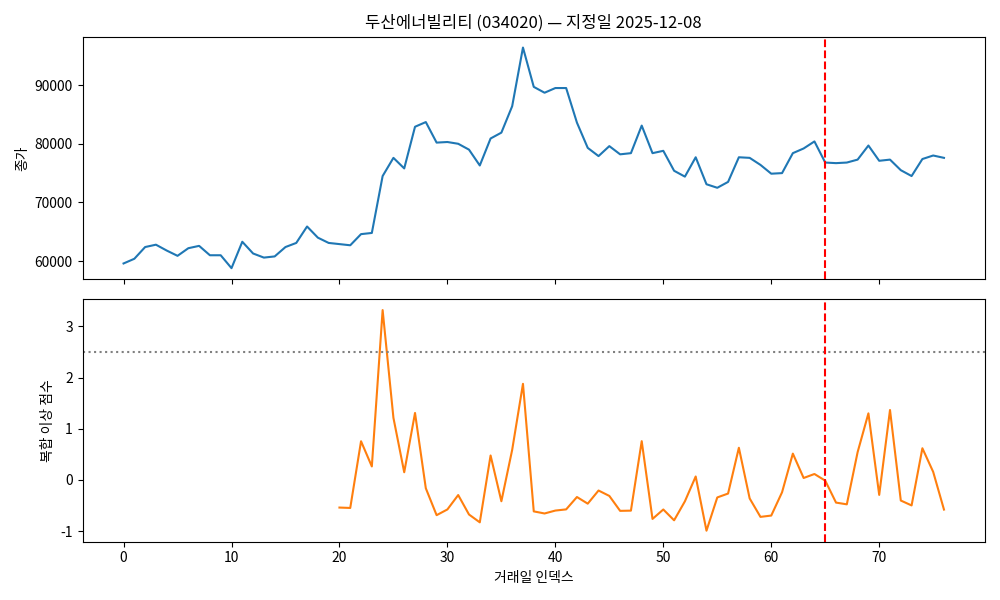
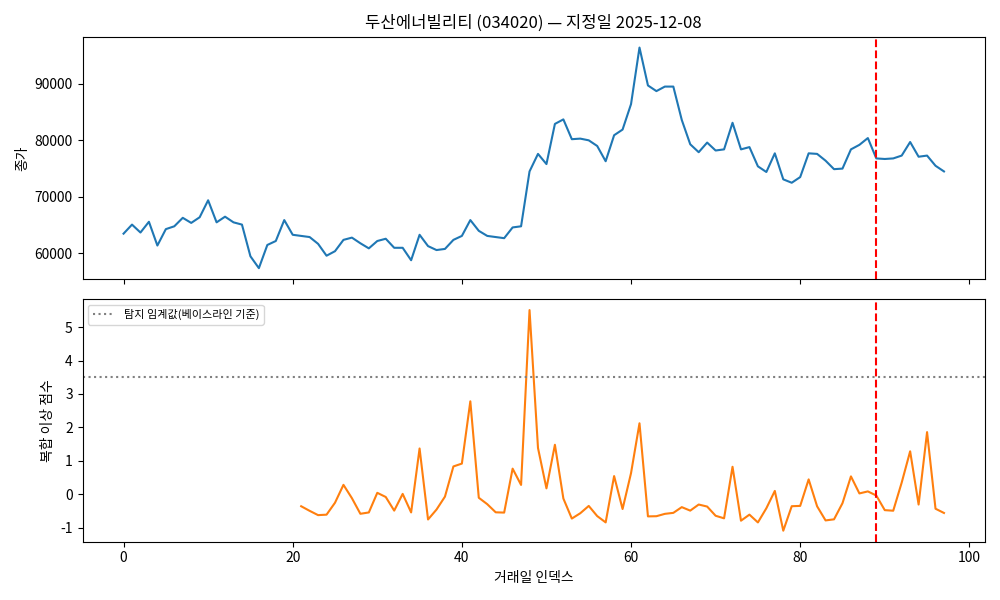
fix: address final review findings (Important #1-5)
- detector: trailing z-score window now excludes the current day
  (was self-inclusive, capping z near 4.25 regardless of spike size)
- backtest: baseline must be fully non-NaN past the rolling-window
  warm-up, not just row-count-sufficient (was silently averaging
  ~half-NaN baselines)
- backtest: near-zero baseline variance now yields status=undetermined
  instead of being misreported as "ok, no detection"
- backtest: run_case now records effective_date (post-fallback) and
  breach_level in its result
- report: chart's threshold line now plots the actual per-case
  breach_level (mean + k*std) instead of a fixed, unrelated 2.5 line
- run_backtest: widened the KIS fetch window (135d/+10d) so baseline
  rows clear both the 60-row requirement and the detector's warm-up

Claude-Session: https://claude.ai/code/session_01QWMoTHrS88tESWLVcNmbEz

diff --git a/tests/test_backtest.py b/tests/test_backtest.py
@@ -44,6 +44,11 @@ def _alternating_case_df(n=120, spike_row=70):
     return pd.DataFrame({"date": dates, "close": close, "volume": volume})
 
 
+def _designation_date_for_row(df, row):
+    d = df["date"].iloc[row]
+    return f"{d[0:4]}-{d[4:6]}-{d[6:8]}"
+
+
 def test_run_case_lead_time_matches_known_spike_position():
     designation_row = 90
     spike_row = 70
@@ -51,11 +56,13 @@ def test_run_case_lead_time_matches_known_spike_position():
     case = {
         "name": "테스트종목",
         "ticker": "000000",
-        "designation_date": "2026-" + df["date"].iloc[designation_row][4:6] + "-" + df["date"].iloc[designation_row][6:8],
+        "designation_date": _designation_date_for_row(df, designation_row),
     }
     result = run_case(df, case)
     assert result["status"] == "ok"
     assert result["lead_time_days"] == designation_row - spike_row
+    assert result["effective_date"] == case["designation_date"]
+    assert result["breach_level"] is not None
 
 
 def test_run_case_insufficient_data_when_baseline_too_short():
@@ -63,9 +70,55 @@ def test_run_case_insufficient_data_when_baseline_too_short():
     case = {
         "name": "테스트종목",
         "ticker": "000000",
-        "designation_date": "2026-" + df["date"].iloc[35][4:6] + "-" + df["date"].iloc[35][6:8],
+        "designation_date": _designation_date_for_row(df, 35),
     }
     result = run_case(df, case)
     assert result["status"] == "insufficient_data"
     assert result["lead_time_days"] is None
     assert result["false_positive_rate"] is None
+    assert result["breach_level"] is None
+
+
+def test_run_case_insufficient_data_when_baseline_has_warmup_nan():
+    # Baseline starts right at row d-60=0, which is inside the detector's
+    # own rolling-window warm-up (first ~20 rows are NaN) even though the
+    # row count looks sufficient by the naive "baseline_start >= 0" check.
+    df = _alternating_case_df(n=96, spike_row=None)
+    case = {
+        "name": "테스트종목",
+        "ticker": "000000",
+        "designation_date": _designation_date_for_row(df, 60),
+    }
+    result = run_case(df, case)
+    assert result["status"] == "insufficient_data"
+
+
+def test_run_case_effective_date_reflects_fallback():
+    designation_row = 90
+    df = _alternating_case_df(n=120, spike_row=None)
+    nominal_date = _designation_date_for_row(df, designation_row)
+    df = df.drop(index=designation_row).reset_index(drop=True)
+    case = {"name": "테스트종목", "ticker": "000000", "designation_date": nominal_date}
+    result = run_case(df, case)
+    assert result["effective_date"] != nominal_date
+    assert result["effective_date"] == _designation_date_for_row(df, designation_row)
+
+
+def test_run_case_undetermined_when_baseline_variance_is_zero():
+    # A perfectly linear close/volume trend makes the per-day composite
+    # score converge to the same constant every day once past warm-up, so
+    # the baseline's own std is ~0 -- "can't judge", not "no detection".
+    n = 120
+    dates = _dates(n)
+    close = [100.0 + 0.1 * i for i in range(n)]
+    volume = [1000 + 10 * i for i in range(n)]
+    df = pd.DataFrame({"date": dates, "close": close, "volume": volume})
+    case = {
+        "name": "테스트종목",
+        "ticker": "000000",
+        "designation_date": _designation_date_for_row(df, 90),
+    }
+    result = run_case(df, case)
+    assert result["status"] == "undetermined"
+    assert result["lead_time_days"] is None
+    assert result["breach_level"] is None

diff --git a/src/backtest.py b/src/backtest.py
@@ -27,17 +27,31 @@ def find_designation_row(df: pd.DataFrame, designation_date: str) -> int:
     raise ValueError(f"no row on or after designation date {designation_date}")
 
 
+def _format_date(yyyymmdd: str) -> str:
+    return f"{yyyymmdd[0:4]}-{yyyymmdd[4:6]}-{yyyymmdd[6:8]}"
+
+
+# Below this, the baseline's own std is treated as zero (floating-point
+# noise from rolling-window arithmetic on a near-constant series, not a
+# genuine non-zero spread) -- see test_run_case_undetermined_when_baseline_variance_is_zero.
+ZERO_SIGMA_EPSILON = 1e-3
+
+
 def run_case(df: pd.DataFrame, case: dict, threshold: float = 2.5) -> dict:
     result = {
         "name": case["name"],
         "ticker": case["ticker"],
         "designation_date": case["designation_date"],
+        "effective_date": None,
         "status": "ok",
         "lead_time_days": None,
         "false_positive_rate": None,
+        "breach_level": None,
     }
 
     d = find_designation_row(df, case["designation_date"])
+    result["effective_date"] = _format_date(df["date"].iloc[d])
+
     baseline_start = d + BASELINE_START_OFFSET
     baseline_end = d + BASELINE_END_OFFSET
     obs_start = d + OBS_START_OFFSET
@@ -52,9 +66,21 @@ def run_case(df: pd.DataFrame, case: dict, threshold: float = 2.5) -> dict:
     )
 
     baseline_scores = score.loc[baseline_start:baseline_end]
+    if baseline_scores.isna().any():
+        # Enough rows exist, but some fall inside the detector's own
+        # rolling-window warm-up and are NaN -- the baseline isn't
+        # actually fully populated.
+        result["status"] = "insufficient_data"
+        return result
+
     mu = baseline_scores.mean()
     sigma = baseline_scores.std()
+    if pd.isna(sigma) or sigma < ZERO_SIGMA_EPSILON:
+        result["status"] = "undetermined"
+        return result
+
     breach_level = mu + threshold * sigma
+    result["breach_level"] = breach_level
 
     obs_scores = score.loc[obs_start:obs_end]
     breaches = obs_scores[obs_scores > breach_level]

diff --git a/src/report.py b/src/report.py
@@ -13,7 +13,7 @@ matplotlib.rcParams["axes.unicode_minus"] = False
 from src.backtest import find_designation_row
 
 
-def plot_case(df: pd.DataFrame, score: pd.Series, case: dict, output_dir: str) -> str:
+def plot_case(df: pd.DataFrame, score: pd.Series, case: dict, output_dir: str, breach_level: float = None) -> str:
     d = find_designation_row(df, case["designation_date"])
 
     os.makedirs(output_dir, exist_ok=True)
@@ -25,7 +25,9 @@ def plot_case(df: pd.DataFrame, score: pd.Series, case: dict, output_dir: str) -
     ax_price.axvline(d, color="red", linestyle="--")
 
     ax_score.plot(score.index, score, color="tab:orange")
-    ax_score.axhline(2.5, color="gray", linestyle=":")
+    if breach_level is not None:
+        ax_score.axhline(breach_level, color="gray", linestyle=":", label="탐지 임계값(베이스라인 기준)")
+        ax_score.legend(loc="upper left", fontsize=8)
     ax_score.axvline(d, color="red", linestyle="--")
     ax_score.set_ylabel("복합 이상 점수")
     ax_score.set_xlabel("거래일 인덱스")
@@ -38,5 +40,8 @@ def plot_case(df: pd.DataFrame, score: pd.Series, case: dict, output_dir: str) -
 
 
 def write_results_csv(results: list, output_path: str) -> None:
-    columns = ["name", "ticker", "designation_date", "status", "lead_time_days", "false_positive_rate"]
+    columns = [
+        "name", "ticker", "designation_date", "effective_date", "status",
+        "lead_time_days", "false_positive_rate", "breach_level",
+    ]
     pd.DataFrame(results, columns=columns).to_csv(output_path, index=False)

diff --git a/run_backtest.py b/run_backtest.py
@@ -28,8 +28,12 @@ def main():
             time.sleep(1)  # be polite to the quote endpoint between calls
 
         designation = pd.Timestamp(case["designation_date"])
-        start_date = (designation - pd.Timedelta(days=100)).strftime("%Y%m%d")
-        end_date = (designation + pd.Timedelta(days=15)).strftime("%Y%m%d")
+        # Baseline needs 60 trading rows plus ~20 for the detector's own
+        # rolling-window warm-up before the designation row; ~135 calendar
+        # days covers that with margin while staying under the KIS
+        # 100-row-per-call cap (see Global Constraints in the plan).
+        start_date = (designation - pd.Timedelta(days=135)).strftime("%Y%m%d")
+        end_date = (designation + pd.Timedelta(days=10)).strftime("%Y%m%d")
 
         df = get_daily_price(access_token, app_key, app_secret, case["ticker"], start_date, end_date)
 
@@ -38,7 +42,7 @@ def main():
         results.append(result)
 
         if result["status"] == "ok":
-            plot_case(df, score, case, OUTPUT_DIR)
+            plot_case(df, score, case, OUTPUT_DIR, breach_level=result["breach_level"])
 
     os.makedirs(OUTPUT_DIR, exist_ok=True)
     write_results_csv(results, os.path.join(OUTPUT_DIR, "results.csv"))

diff --git a/tests/test_detector.py b/tests/test_detector.py
@@ -5,19 +5,30 @@ from src.detector import volume_zscore, price_return_zscore, composite_score
 
 
 def test_volume_zscore_flags_spike_above_3():
-    volume = pd.Series([100] * 19 + [1000])
+    volume = pd.Series([100, 105] * 10 + [1000])  # 20 baseline rows + 1 spike
     z = volume_zscore(volume, window=20)
     assert z.iloc[-1] > 3
 
 
 def test_volume_zscore_is_nan_when_flat():
-    volume = pd.Series([100] * 20)
+    volume = pd.Series([100] * 21)
     z = volume_zscore(volume, window=20)
     assert np.isnan(z.iloc[-1])
 
 
+def test_volume_zscore_excludes_current_day_from_its_own_baseline():
+    # A self-inclusive rolling window caps z at (n-1)/sqrt(n) ~= 4.25 for
+    # window=20, no matter how extreme the spike. A trailing window that
+    # excludes today has no such cap.
+    volume = pd.Series([100, 105] * 10 + [100000])
+    z = volume_zscore(volume, window=20)
+    assert z.iloc[-1] > 100
+
+
 def test_price_return_zscore_flags_spike_above_3():
-    close = pd.Series([100.0] * 20 + [200.0])
+    close = pd.Series(
+        [100.0] + [100.5 if i % 2 == 0 else 100.0 for i in range(21)] + [300.0]
+    )
     z = price_return_zscore(close, window=20)
     assert abs(z.iloc[-1]) > 3
 

diff --git a/src/detector.py b/src/detector.py
@@ -5,8 +5,9 @@ import pandas as pd
 
 
 def _rolling_zscore(series: pd.Series, window: int) -> pd.Series:
-    mean = series.rolling(window).mean()
-    std = series.rolling(window).std().replace(0, np.nan)
+    baseline = series.shift(1)  # compare today against the trailing window, excluding today
+    mean = baseline.rolling(window).mean()
+    std = baseline.rolling(window).std().replace(0, np.nan)
     return (series - mean) / std
 
 
